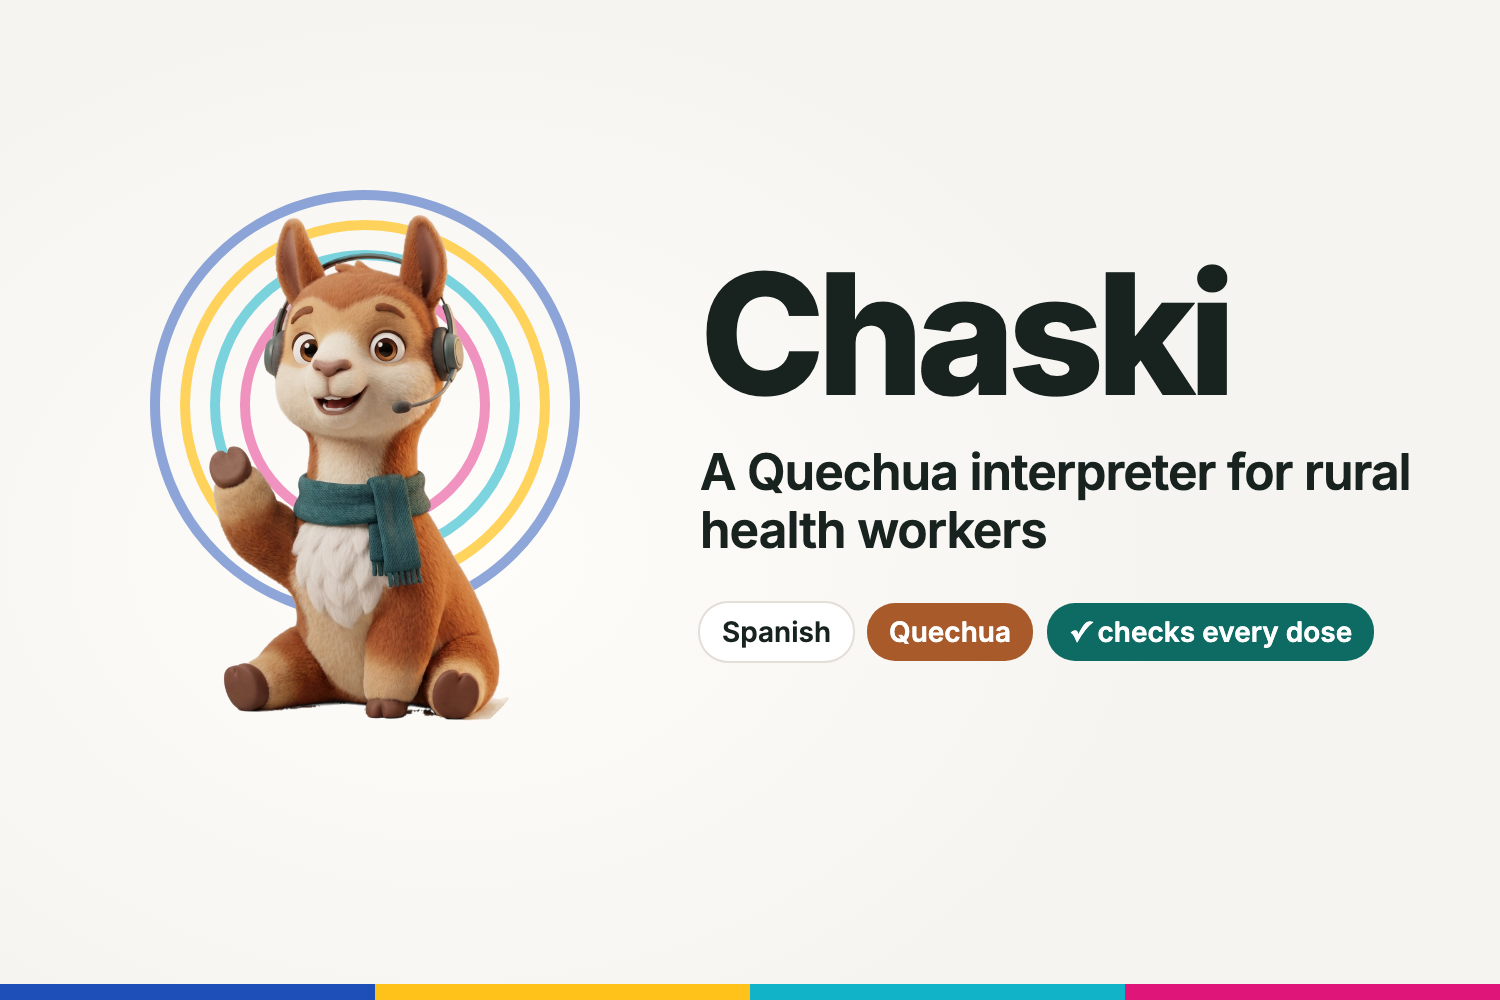
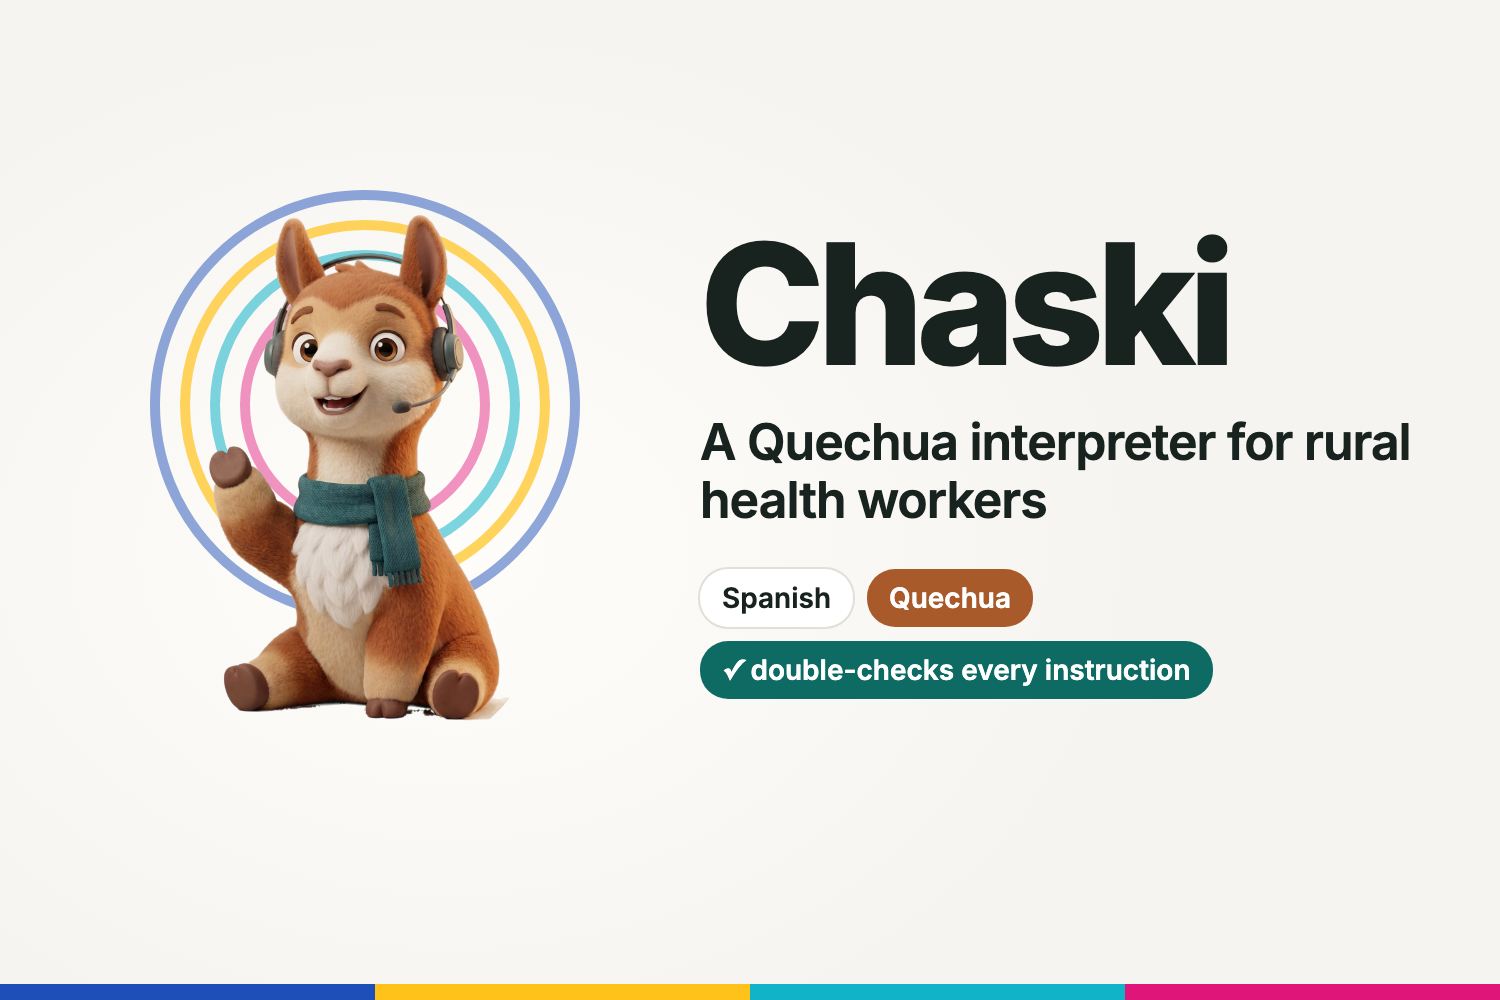
docs(sot): D46, the official description; thumbnail says double-checks every instruction

Changed region(s): [[0.46, 0.217, 0.9507, 0.713]]

diff --git a/SOT.md b/SOT.md
@@ -8,6 +8,7 @@
 
 ### Qué cambió en cada versión (léelo primero, Ricardo)
 
+- **SOT-24 (dom 03:30).** **Descripción oficial de Chaski (D46)**: el elevator pitch de Devpost, escrito por Freddy. Todo texto público (Devpost, README, pitch, miniatura) parte de acá.
 - **SOT-23 (dom 03:25).** **Chaski es para TODO el personal de salud (D45)**: médicos, enfermería, obstetras y técnicos, más el paciente. Ningún texto público (pitch, Devpost, README) lo presenta como «para enfermeras».
 - **SOT-19 (dom 00:45).** **UI simple (D42)**: la app es para personas con poca experiencia digital. Poco texto, una acción por pantalla, etiquetas de 1 a 3 palabras; la auditoría es una sola línea «✓ Revisado» y el bloqueo es «No lo dije» + un motivo.
 - **SOT-18 (sáb 19:45).** **Chaski sin fondo (D40)**: la vicuña va recortada sobre el fondo de la app, sin el marco escalonado, en toda la app. Videos en HEVC con transparencia.
@@ -176,6 +177,7 @@ Licencias: Omnilingual y Siminchik libres; MMS-TTS y MMS-LID no comerciales (bie
 | D25 | sáb 08:35 | **El cuadernillo pide escribir la frase en quechua y leer en voz alta exactamente lo escrito** (75 frases, foto de cada hoja + una nota de voz por frase). Traducción: **NLLB-200 de Meta** (`facebook/nllb-200-distilled-600M`, incluye `quy_Latn`, licencia no comercial) ajustado con esos pares | Traducir, entender y hablar necesitan **texto escrito**: con solo voz habría que transcribir ~450 audios. Así cada persona trae su texto y su audio alineados. Omnilingual MT (Meta, mar-2026) no tiene pesos publicados |
 | D40 | sáb 19:01 | **Chaski sin fondo, sobre el fondo de la app, en toda la app**; reemplaza el marco escalonado de L (D29/D31) para el avatar. Recorte local con BiRefNet (rembg); los loops van en HEVC con alfa (`avatar/loops/*-alfa.mov`), las imágenes en `avatar/estados-alfa/`. El marco queda en el código con `&marco=1` | Freddy lo vio en la app y lo eligió: más limpio, Chaski se integra a la pantalla y la experiencia se siente mejor |
 | D42 | dom 00:25 | **UI simple para personas con poca experiencia digital: poco texto, una acción por pantalla.** Etiquetas de 1–3 palabras, sin párrafos explicativos, un botón principal grande; «Pensando» es una sola línea que cambia; la auditoría y el crítico son un solo «✓ Revisado»; el bloqueo es «No lo dije» + un motivo + «Dígalo de otra forma». La identidad (D29/D31/D40 de Chaski sin fondo) no cambia | Pedido de Freddy: la usan personas que casi no usan tecnología |
+| D46 | dom 03:30 | **Descripción oficial (elevator pitch de Devpost, 198/200):** «A Quechua interpreter for rural health workers. Chaski interprets the visit face to face, asks when unsure and double-checks every instruction. Combines fine-tuning, computer vision, RAG and agents.» Frase corta (estilo YC, ≤ 50 caracteres): «A Quechua interpreter for rural health workers». Se dice «double-checks every instruction», no «every dose» (Chaski verifica que la indicación llegue intacta, no juzga si la dosis es correcta) | Escrita por Freddy al llenar Devpost, sobre la estructura YC (cliente + trabajo primero) y D45 (todo el personal de salud) |
 | D45 | dom 03:25 | **Chaski es para todo el personal de salud de la posta, no solo para enfermeras**: médicos, enfermería, obstetras y técnicos (y el paciente, D27). En inglés: «health workers» / «health staff», nunca «nurses» como usuario. La enfermera de Pilpichaca es la experta que valida, y en el demo el ejemplo puede ser ella | Corrección de Freddy al revisar el Devpost: «it is not just for nurses, it is for the whole medical staff» |
 | D44 | dom 01:45 | **Memoria automática**: cada turno que pasó el crítico se guarda; la respuesta siguiente lo marca confirmado (respuesta normal) o dudoso («¿qué dijo?»); solo lo aprobado por la embajadora se vuelve ejemplo del traductor. Sin tiempo extra por turno | 100 frases auto-traducidas, 85 pasaron el crítico: como ejemplos ganan a nada (es→qu 54,9 → 56,2) pero nunca a las de la enfermera (57,4), mezcladas de ningún modo (`evals/moat/memoria_auto.py`). Freddy: «solo decide», «no le agregues tiempo a la respuesta» |
 | D41 | dom 00:20 | **El traductor recibe como ejemplos las 5 frases revisadas por la enfermera más parecidas** (`CHASKI_EJEMPLOS=1`). Es el primer paso del foso: cada frase que ella revise mejora la siguiente traducción | 62 frases de las familias, con filtro contra fugas: es→qu 52,6 → 56,0; qu→es 49,1 → 56,0; turno completo 20/20 dichos en 8,0 s (antes 19/20, 8,3 s). Pedido de Freddy: «lets build this moat» (`plan/foso.md`, `evals/moat/`) |
